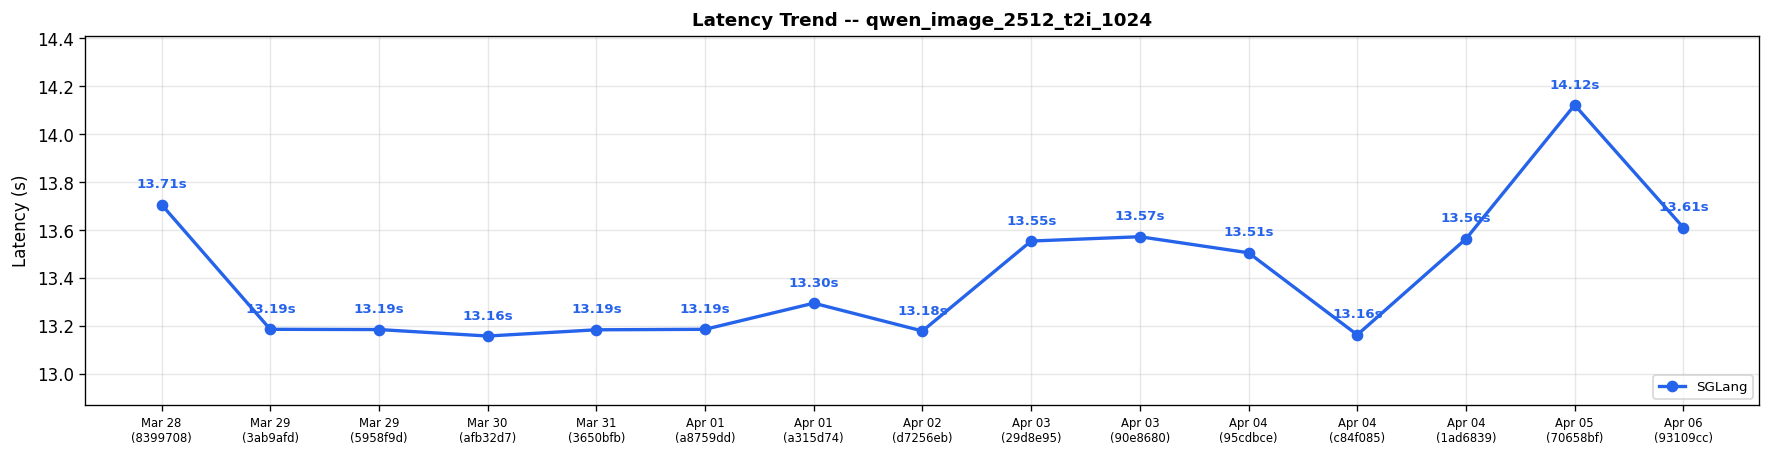
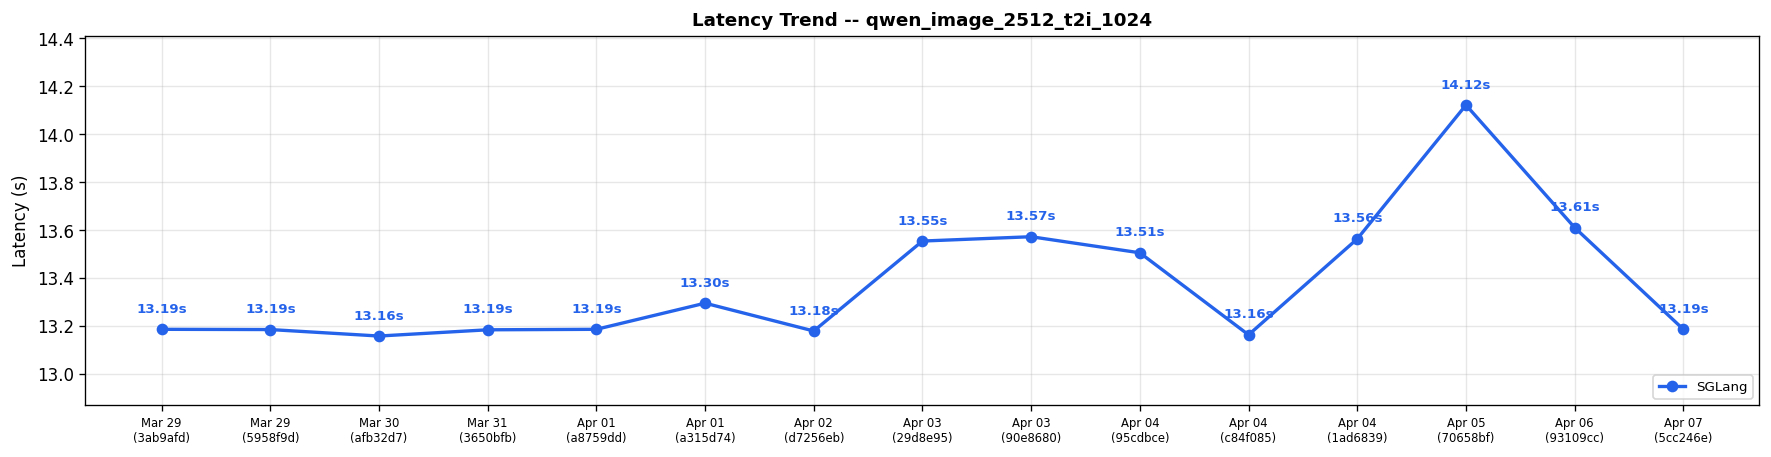
Diffusion comparison results for run 24058553571 (#558)

diff --git a/diffusion-comparisons/dashboard.md b/diffusion-comparisons/dashboard.md
@@ -1,20 +1,26 @@
 # Diffusion Cross-Framework Performance Dashboard
 
-*Generated: Apr 06 | Commit: `93109cc`*
+*Generated: Apr 07 | Commit: `5cc246e`*
+
+> [!WARNING]
+> **Performance Regression Detected**
+>
+> - **ltx2_twostage_t2v** (sglang): 14.13s -> 15.11s (+6.9%)
+
 
 ## Cross-Framework Performance Comparison
 
 | Model | Risk | sglang (s) |
 |-------|------|---------|
-| FLUX.1-dev | ✅ | **6.70** |
-| FLUX.2-dev | ✅ | **22.86** |
-| Qwen-Image-2512 | ✅ | **13.61** |
-| Qwen-Image-Edit-2511 | ✅ | **23.92** |
+| FLUX.1-dev | ✅ | **6.69** |
+| FLUX.2-dev | ✅ | **22.92** |
+| Qwen-Image-2512 | ✅ | **13.19** |
+| Qwen-Image-Edit-2511 | ✅ | **23.83** |
 | Z-Image-Turbo | ✅ | **0.89** |
-| Wan2.2-T2V-A14B-Diffusers | ⚠ | **210.73** |
-| Wan2.2-TI2V-5B-Diffusers | ✅ | **62.15** |
-| LTX-2 | ✅ | **14.13** |
-| Wan2.2-I2V-A14B-Diffusers | ⚠ | **207.67** |
+| Wan2.2-T2V-A14B-Diffusers | ⚠ | **210.64** |
+| Wan2.2-TI2V-5B-Diffusers | ✅ | **62.20** |
+| LTX-2 | ⚠ | **15.11** |
+| Wan2.2-I2V-A14B-Diffusers | ⚠ | **207.62** |
 
 ### Latency Trend: flux1_dev_t2i_1024
 
@@ -65,6 +71,7 @@
 
 | Date | Commit | flux1_dev_t2i_1024 (s) | flux2_dev_t2i_1024 (s) | qwen_image_2512_t2i_1024 (s) | qwen_image_edit_2511 (s) | zimage_turbo_t2i_1024 (s) | wan22_t2v_a14b_720p (s) | wan22_ti2v_5b_720p (s) | ltx2_twostage_t2v (s) | wan22_i2v_a14b_720p (s) | Trend |
 |------|--------|---------|---------|---------|---------|---------|---------|---------|---------|---------|-------|
+| Apr 07 | `5cc246e` | 6.69 | 22.92 | 13.19 | 23.83 | 0.89 | 210.64 | 62.20 | 15.11 | 207.62 | :left_right_arrow:  :left_right_arrow:  :arrow_down:  :left_right_arrow:  :left_right_arrow:  :left_right_arrow:  :left_right_arrow:  :arrow_up:  :left_right_arrow: |
 | Apr 06 | `93109cc` | 6.70 | 22.86 | 13.61 | 23.92 | 0.89 | 210.73 | 62.15 | 14.13 | 207.67 | :left_right_arrow:  :left_right_arrow:  :arrow_down:  :left_right_arrow:  :left_right_arrow:  :left_right_arrow:  :left_right_arrow:  :left_right_arrow:  :left_right_arrow: |
 | Apr 05 | `70658bf` | 6.68 | 22.80 | 14.12 | 23.80 | 0.88 | 209.31 | 62.15 | 14.06 | 204.55 | :left_right_arrow:  :left_right_arrow:  :arrow_up:  :arrow_down:  :left_right_arrow:  :arrow_up:  :arrow_down:   :arrow_up: |
 | Apr 04 | `1ad6839` | 6.71 | 22.85 | 13.56 | 29.57 | 0.89 | 16.10 | 64.20 | N/A | 21.07 | :arrow_down:  :left_right_arrow:  :arrow_up:  :arrow_up:  :arrow_down:  :arrow_down:  :arrow_up:   :arrow_down: |
@@ -78,15 +85,15 @@
 | Mar 31 | `3650bfb` | 6.69 | 22.84 | 13.19 | 29.64 | 0.93 | 16.10 | 63.18 | N/A | 9.03 | :left_right_arrow:  :left_right_arrow:  :left_right_arrow:  :left_right_arrow:  :left_right_arrow:  :left_right_arrow:  :left_right_arrow:   :arrow_down: |
 | Mar 30 | `afb32d7` | 6.68 | 22.79 | 13.16 | 29.44 | 0.92 | 16.08 | 62.21 | N/A | 10.04 | :left_right_arrow:  :left_right_arrow:  :left_right_arrow:  :left_right_arrow:  :left_right_arrow:  :left_right_arrow:  :left_right_arrow:   :left_right_arrow: |
 | Mar 29 | `5958f9d` | 6.70 | 22.86 | 13.19 | 29.74 | 0.93 | 16.31 | 62.18 | N/A | 10.04 | :left_right_arrow:  :left_right_arrow:  :left_right_arrow:  :left_right_arrow:  :left_right_arrow:  :left_right_arrow:  :left_right_arrow:   :arrow_up: |
-| Mar 29 | `3ab9afd` | 6.70 | 22.90 | 13.19 | 29.52 | 0.93 | 16.17 | 62.17 | N/A | 9.04 | :left_right_arrow:  :left_right_arrow:  :arrow_down:  :arrow_down:  :left_right_arrow:  :left_right_arrow:  :left_right_arrow:   :arrow_down: |
-| Mar 28 | `8399708` | 6.68 | 22.76 | 13.71 | 31.67 | 0.93 | 16.27 | 62.22 | N/A | 10.04 | -- |
+| Mar 29 | `3ab9afd` | 6.70 | 22.90 | 13.19 | 29.52 | 0.93 | 16.17 | 62.17 | N/A | 9.04 | -- |
 
 > [!CAUTION]
 > **Action Required — Performance Alert**
 >
 > The following cases need attention:
-> - wan22_t2v_a14b_720p: SGLang regression +44.9% vs 3-run avg (210.73s vs 145.43s)
-> - wan22_i2v_a14b_720p: SGLang regression +44.2% vs 3-run avg (207.67s vs 144.06s)
+> - wan22_t2v_a14b_720p: SGLang regression +44.9% vs 3-run avg (210.64s vs 145.38s)
+> - ltx2_twostage_t2v: SGLang regression +7.2% vs 3-run avg (15.11s vs 14.10s)
+> - wan22_i2v_a14b_720p: SGLang regression +43.8% vs 3-run avg (207.62s vs 144.43s)
 
 
 ---
